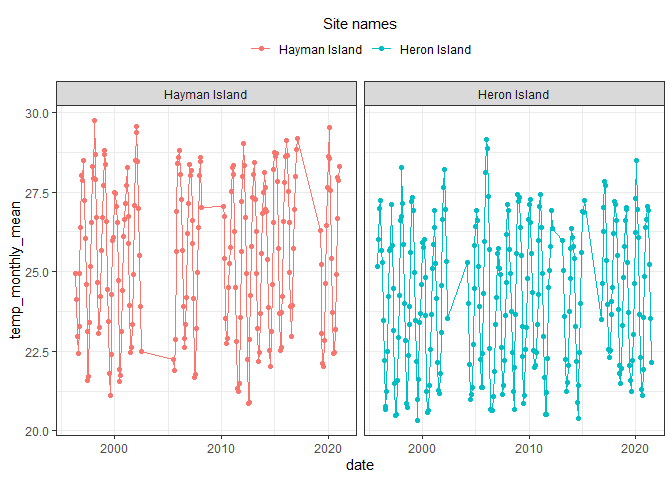
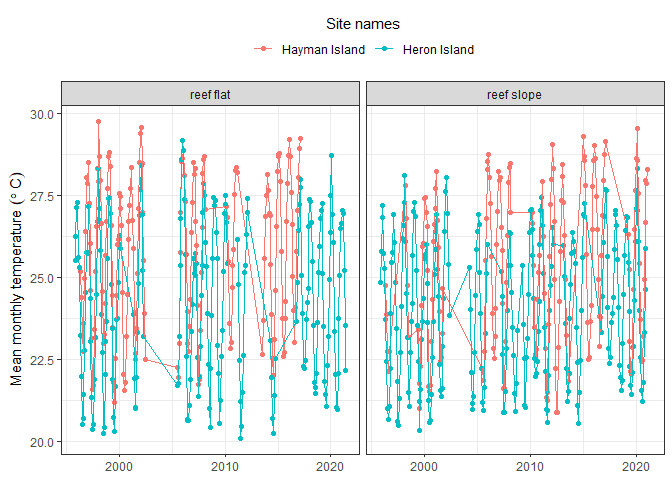
Adding logger deployment categories to data

diff --git a/poc-data-api/Extracting_Water_Temperature_at_Site.md b/poc-data-api/Extracting_Water_Temperature_at_Site.md
@@ -5,30 +5,36 @@ Denisse Fierro Arcos
 
 - <a href="#goal-of-this-notebook" id="toc-goal-of-this-notebook">Goal of
   this notebook</a>
-  - <a href="#loading-libraries" id="toc-loading-libraries">Loading
-    libraries</a>
-  - <a href="#connecting-to-rimrep-collection"
-    id="toc-connecting-to-rimrep-collection">Connecting to RIMReP
-    collection</a>
+- <a href="#loading-libraries" id="toc-loading-libraries">Loading
+  libraries</a>
+- <a href="#connecting-to-rimrep-collection"
+  id="toc-connecting-to-rimrep-collection">Connecting to RIMReP
+  collection</a>
   - <a href="#exploring-dataset-structure"
     id="toc-exploring-dataset-structure">Exploring dataset structure</a>
-  - <a href="#extracting-sites-and-coordinates-from-dataset-option-1"
-    id="toc-extracting-sites-and-coordinates-from-dataset-option-1">Extracting
-    sites and coordinates from dataset (Option #1)</a>
+- <a href="#extracting-variables-of-our-interest-from-dataset"
+  id="toc-extracting-variables-of-our-interest-from-dataset">Extracting
+  variables of our interest from dataset</a>
+  - <a href="#creating-deployment_location-column"
+    id="toc-creating-deployment_location-column">Creating
+    <code>deployment_location</code> column</a>
+  - <a href="#extracting-latitude-and-longitude-values-option-1"
+    id="toc-extracting-latitude-and-longitude-values-option-1">Extracting
+    latitude and longitude values (Option #1)</a>
     - <a href="#transforming-geometry-format"
       id="toc-transforming-geometry-format">Transforming <code>geometry</code>
       format</a>
   - <a href="#extracting-sites-and-coordinates-from-dataset-option-2"
     id="toc-extracting-sites-and-coordinates-from-dataset-option-2">Extracting
     sites and coordinates from dataset (Option #2)</a>
-  - <a href="#plotting-map-of-sampled-sites-in-this-dataset"
-    id="toc-plotting-map-of-sampled-sites-in-this-dataset">Plotting map of
-    sampled sites in this dataset</a>
-  - <a href="#extracting-data-for-one-site-of-interest"
-    id="toc-extracting-data-for-one-site-of-interest">Extracting data for
-    one site of interest</a>
-    - <a href="#plotting-timeseries" id="toc-plotting-timeseries">Plotting
-      timeseries</a>
+- <a href="#plotting-map-of-sampled-sites-in-this-dataset"
+  id="toc-plotting-map-of-sampled-sites-in-this-dataset">Plotting map of
+  sampled sites in this dataset</a>
+- <a href="#extracting-data-for-sites-of-interest"
+  id="toc-extracting-data-for-sites-of-interest">Extracting data for sites
+  of interest</a>
+  - <a href="#plotting-timeseries" id="toc-plotting-timeseries">Plotting
+    timeseries</a>
   - <a href="#saving-data-summaries-and-plot"
     id="toc-saving-data-summaries-and-plot">Saving data summaries and
     plot</a>
@@ -45,7 +51,7 @@ monitoring program. This way we can extract data for the site of our
 choice using the name of the site of our interest, without the need to
 know their coordinates.
 
-## Loading libraries
+# Loading libraries
 
 ``` r
 library(arrow)
@@ -58,7 +64,7 @@ library(sf)
 library(lubridate)
 ```
 
-## Connecting to RIMReP collection
+# Connecting to RIMReP collection
 
 As mentioned above, we will connect to the AIMS Sea Surface Temperature
 Monitoring Program. This can take a minute or so.
@@ -109,17 +115,31 @@ data_df$schema
     ## See $metadata for additional Schema metadata
 
 We can see that there are a number of variables available in this
-dataset. We will need to access two variables to create our list of
+dataset. We will need to access three variables to create a list of all
 sampled sites in this monitoring program:  
-- `site`, which includes the name of all sites sampled - `geometry`,
-which includes latitude and longitude coordinates in [well-known binary
+- `site`, which includes the name of all sites where temperature loggers
+were deployed - `subsite`, which includes a shorten version of the site
+name and an indication of where loggers where deployed (see below for
+more details) - `geometry`, which includes latitude and longitude
+coordinates in [well-known binary
 (WKB)](https://loc.gov/preservation/digital/formats/fdd/fdd000549.shtml)
-format.
+format
 
-We will transform the information in the `geometry` field into
-coordinate pairs (i.e., latitude and longitude in degrees).  
-Note that you get additional information about our dataset by exploring
-its metadata as shown below.
+Based on the `subsite` information, we will create a new column that we
+will call `deployment_location`. If `subsite` string includes `SL`, this
+indicates the temperature logger was deployed on a reef slope (depths of
+3 m or more). If this is the case, our new column will be labelled
+`reef slope`. If `FL` is included in the `subsite` string, this means
+the temperature logger was deployed on a reef flat (areas less than 3 m
+deep). In this case, we will classify this as `reef flat` in our new
+column.
+
+Next, we will transform the information contained in the `geometry`
+field into coordinate pairs (i.e., latitude and longitude in decimal
+degrees).
+
+**Note** that you can get additional information about the AIMS dataset
+by exploring its metadata as shown below.
 
 ``` r
 #Checking metadata
@@ -132,7 +152,7 @@ data_df$metadata
     ## $geo
     ## [1] "{\"primary_column\": \"geometry\", \"columns\": {\"geometry\": {\"encoding\": \"WKB\", \"crs\": null, \"geometry_type\": \"Point\", \"bbox\": [112.9866, -34.3725, 115.7104, -22.495]}}, \"version\": \"0.4.0\", \"creator\": {\"library\": \"geopandas\", \"version\": \"0.12.2\"}}"
 
-## Extracting sites and coordinates from dataset (Option \#1)
+# Extracting variables of our interest from dataset
 
 We can extract data from the AIMS dataset by using `dplyr` verbs as
 shown below.
@@ -140,7 +160,7 @@ shown below.
 ``` r
 sites <- data_df %>% 
   #We select unique sites included in the dataset
-  distinct(site, geometry) %>%
+  distinct(site, subsite, geometry) %>%
   #This will load them into memory
   collect()
 
@@ -148,15 +168,44 @@ sites <- data_df %>%
 glimpse(sites)
 ```
 
-    ## Rows: 516
-    ## Columns: 2
+    ## Rows: 589
+    ## Columns: 3
     ## $ site     <chr> "Hamelin Bay", "Flinders Bay", "Geographe Bay", "Cowaramup Ba…
+    ## $ subsite  <chr> "HAMBAYFL1", "FLINDERSBAY1", "GEOBAYFL1", "COWBAYFL1", "CANAL…
     ## $ geometry <arrw_bnr> <01, 01, 00, 00, 00, 19, e2, 58, 17, b7, c1, 5c, 40, b1,…
 
-As explained above, the `geometry` field is in WKB format, which we will
-transform into degree coordinates in the next step. Here, we will use
-the `WKB` to transform the `geometry` and then we will convert it to an
-`sf` object for easy data manipulation.
+## Creating `deployment_location` column
+
+We will use the `subsite` column to create the categories in our new
+column, as explained in the [exploring the dataset
+structure](#exploring-dataset-structure). If no condition is met, then
+we will label the row as `NA`.
+
+``` r
+sites <- sites %>% 
+  #Adding new column - Given categories based on a condition
+  mutate(deployment_location =  case_when(str_detect(subsite, "FL[0-9]{1}") ~ "reef flat",
+                                          str_detect(subsite, "SL[0-9]{1}") ~ "reef slope",
+                                          #If no condition is met, return NA
+                                          T ~ NA))
+
+#Checking results
+glimpse(sites)
+```
+
+    ## Rows: 589
+    ## Columns: 4
+    ## $ site                <chr> "Hamelin Bay", "Flinders Bay", "Geographe Bay", "C…
+    ## $ subsite             <chr> "HAMBAYFL1", "FLINDERSBAY1", "GEOBAYFL1", "COWBAYF…
+    ## $ geometry            <arrw_bnr> <01, 01, 00, 00, 00, 19, e2, 58, 17, b7, c1, …
+    ## $ deployment_location <chr> "reef flat", NA, "reef flat", "reef flat", "reef f…
+
+## Extracting latitude and longitude values (Option \#1)
+
+As explained [above](#exploring-dataset-structure), the `geometry` field
+is in WKB format, which we will transform into degree coordinates in the
+next step. Here, we will use the `WKB` to transform the `geometry` and
+then we will convert it to an `sf` object for easy data manipulation.
 
 ### Transforming `geometry` format
 
@@ -175,15 +224,15 @@ sites %>%
   head()
 ```
 
-    ## # A tibble: 6 × 4
-    ##   site        coords_deg$geometry   lon   lat
-    ##   <chr>                   <POINT> <dbl> <dbl>
-    ## 1 100th Site   (96.8709 -12.1069)  96.9 -12.1
-    ## 2 19-131 Reef (149.3786 -19.7641) 149.  -19.8
-    ## 3 19-131 Reef (149.3802 -19.7662) 149.  -19.8
-    ## 4 19-131 Reef  (149.376 -19.7728) 149.  -19.8
-    ## 5 19-138 Reef (149.4305 -19.8069) 149.  -19.8
-    ## 6 19-138 Reef (149.4199 -19.8024) 149.  -19.8
+    ## # A tibble: 6 × 6
+    ##   site        subsite  deployment_location coords_deg$geometry   lon   lat
+    ##   <chr>       <chr>    <chr>                           <POINT> <dbl> <dbl>
+    ## 1 100th Site  100THSI… <NA>                 (96.8709 -12.1069)  96.9 -12.1
+    ## 2 19-131 Reef 19131FL1 reef flat           (149.3786 -19.7641) 149.  -19.8
+    ## 3 19-131 Reef 19131SL1 reef slope          (149.3802 -19.7662) 149.  -19.8
+    ## 4 19-131 Reef 19131SL3 reef slope           (149.376 -19.7728) 149.  -19.8
+    ## 5 19-138 Reef 19138SL1 reef slope          (149.4305 -19.8069) 149.  -19.8
+    ## 6 19-138 Reef 19138FL1 reef flat           (149.4199 -19.8024) 149.  -19.8
 
 ## Extracting sites and coordinates from dataset (Option \#2)
 
@@ -196,7 +245,7 @@ extract coordinates as shown in the block below.
 ``` r
 data_df %>% 
   #We select unique sites included in the dataset together with lat and lon values
-  distinct(site, lon, lat) %>% 
+  distinct(site, subsite, lon, lat) %>% 
   #Selecting the first rows for comparison with option#1
   arrange(site) %>% 
   head() %>% 
@@ -204,25 +253,27 @@ data_df %>%
   collect()
 ```
 
-    ## # A tibble: 6 × 3
-    ##   site          lon   lat
-    ##   <chr>       <dbl> <dbl>
-    ## 1 100th Site   96.9 -12.1
-    ## 2 19-131 Reef 149.  -19.8
-    ## 3 19-131 Reef 149.  -19.8
-    ## 4 19-131 Reef 149.  -19.8
-    ## 5 19-138 Reef 149.  -19.8
-    ## 6 19-138 Reef 149.  -19.8
+    ## # A tibble: 6 × 4
+    ##   site        subsite     lon   lat
+    ##   <chr>       <chr>     <dbl> <dbl>
+    ## 1 100th Site  100THSITE  96.9 -12.1
+    ## 2 19-131 Reef 19131FL1  149.  -19.8
+    ## 3 19-131 Reef 19131SL1  149.  -19.8
+    ## 4 19-131 Reef 19131SL3  149.  -19.8
+    ## 5 19-138 Reef 19138SL1  149.  -19.8
+    ## 6 19-138 Reef 19138FL1  149.  -19.8
 
-The two options shown for extracting sites and coordinates from our
-dataset offer the same results!
+The two options shown above for extracting latitude and longitude values
+for each site are equivalent and produce the same results. They are
+interchangeable and you can use whichever you prefer.
 
-## Plotting map of sampled sites in this dataset
+# Plotting map of sampled sites in this dataset
 
 We will make a map of all sites included in the AIMS Water Temperature
 Monitoring Program. We will also highlight the location of two sites:
-**Hayman Island** and **Heron Island** in red. We will use these sites
-as an example to show how to extract data at multiple sites of interest.
+**Hayman Island** and **Heron Island** in red. We will use these
+highlighted sites as examples to show you how to extract data at
+multiple sites of interest.
 
 ``` r
 #Loading basemap with countries in Oceania and Asia
@@ -247,7 +298,7 @@ oce_asia %>%
 
 ![](Extracting_Water_Temperature_at_Site_files/figure-gfm/map_sites-1.png)<!-- -->
 
-## Extracting data for one site of interest
+# Extracting data for sites of interest
 
 We can use the information in our `sites` variable to extract data for a
 site of interest. All we need to know is the name of the site, as shown
@@ -263,27 +314,28 @@ sites_coords <- sites %>%
   #Using random site as example
   filter(site %in% c("Hayman Island", "Heron Island")) %>% 
   #Extracting latitude and longitude coordinates
-  select(site, lon, lat)
+  select(site, lon, lat, deployment_location)
 
 #Checking results
 sites_coords
 ```
 
-    ## # A tibble: 8 × 3
-    ##   site            lon   lat
-    ##   <chr>         <dbl> <dbl>
-    ## 1 Heron Island   152. -23.4
-    ## 2 Heron Island   152. -23.4
-    ## 3 Heron Island   152. -23.4
-    ## 4 Heron Island   152. -23.4
-    ## 5 Heron Island   152. -23.4
-    ## 6 Heron Island   152. -23.4
-    ## 7 Hayman Island  149. -20.0
-    ## 8 Hayman Island  149. -20.1
+    ## # A tibble: 8 × 4
+    ##   site            lon   lat deployment_location
+    ##   <chr>         <dbl> <dbl> <chr>              
+    ## 1 Heron Island   152. -23.4 reef flat          
+    ## 2 Heron Island   152. -23.4 reef flat          
+    ## 3 Heron Island   152. -23.4 reef flat          
+    ## 4 Heron Island   152. -23.4 reef flat          
+    ## 5 Heron Island   152. -23.4 reef flat          
+    ## 6 Heron Island   152. -23.4 reef slope         
+    ## 7 Hayman Island  149. -20.0 reef flat          
+    ## 8 Hayman Island  149. -20.1 reef slope
 
 We can see that there are multiple coordinates for each site, but they
-are located in close proximity to one another. We will use this
-information to extract data from the dataset.
+are located in close proximity to one another. In this case, both sites
+include instrument deployments in the reef flat and slope. We will use
+this information to extract data from the original AIMS dataset.
 
 Note that `qc_val` is the variable containing the temperature data in
 this dataset.
@@ -291,18 +343,18 @@ this dataset.
 ``` r
 sites_temp <- data_df %>% 
   #We will only keep data for the sites of our interest
-  inner_join(sites_coords, by = c("site", "lon", "lat"))%>% 
+  inner_join(sites_coords, by = c("site", "lon", "lat")) %>% 
   #We will two new columns: year and month to calculate monthly means
   mutate(year = year(time),
-         month = month(time)) %>% 
+         month = month(time)) %>%
   #We will now group data by month, year and site
-  group_by(year, month, site) %>% 
+  group_by(year, month, site, deployment_location) %>%
   #Calculating monthly means for temperature at each site
   summarise(temp_monthly_mean = round(mean(qc_val, na.rm = TRUE), 2),
-            #Number of points used in monthly mean calculations
-            nPoints = n()) %>% 
+            #Total number of observations used in monthly mean calculations
+            tot_obs = n()) %>%
   #Arranging in chronological order
-  arrange(site, year, month) %>% 
+  arrange(site, deployment_location, year, month) %>%
   #Turning results into data frame
   collect()
 
@@ -310,18 +362,18 @@ sites_temp <- data_df %>%
 head(sites_temp)
 ```
 
-    ## # A tibble: 6 × 5
-    ## # Groups:   year, month [6]
-    ##    year month site          temp_monthly_mean nPoints
-    ##   <int> <int> <chr>                     <dbl>   <int>
-    ## 1  1996     5 Hayman Island              25.0     232
-    ## 2  1996     6 Hayman Island              24.1    2878
-    ## 3  1996     7 Hayman Island              23.0    2973
-    ## 4  1996     8 Hayman Island              22.4    2976
-    ## 5  1996     9 Hayman Island              23.3    2283
-    ## 6  1996    10 Hayman Island              25.0    1487
+    ## # A tibble: 6 × 6
+    ## # Groups:   year, month, site [6]
+    ##    year month site          deployment_location temp_monthly_mean tot_obs
+    ##   <int> <int> <chr>         <chr>                           <dbl>   <int>
+    ## 1  1996     5 Hayman Island reef flat                        25.2     116
+    ## 2  1996     6 Hayman Island reef flat                        24.4    1439
+    ## 3  1996     7 Hayman Island reef flat                        23.2    1488
+    ## 4  1996     8 Hayman Island reef flat                        22.7    1488
+    ## 5  1996     9 Hayman Island reef flat                        23.6    1440
+    ## 6  1996    10 Hayman Island reef flat                        25.0    1487
 
-### Plotting timeseries
+## Plotting timeseries
 
 We can now use `ggplot2` to create a plot showing how temperature has
 changed over time. We will save the plot as a variable so we can save it
@@ -337,19 +389,27 @@ temp_plot <- sites_temp %>%
   geom_point()+
   geom_line()+
   #Creating subplots for each site for easy comparison
-  facet_grid(~site)+
+  facet_grid(~deployment_location)+
   #Removing default grey background
   theme_bw()+
   #Change position of legend
-  theme(legend.position = "top")+
+  theme(legend.position = "top", axis.title.x = element_blank())+
   #Change position and title of legend
-  guides(colour = guide_legend(title.position = "top", title.hjust = 0.5, title = "Site names"))
+  guides(colour = guide_legend(title.position = "top", title.hjust = 0.5, title = "Site names"))+
+  labs(y = expression("Mean monthly temperature  " ( degree~C)))
 
 #Checking plot
 temp_plot
 ```
 
+    ## Warning: Removed 3 rows containing missing values (`geom_point()`).
+
 ![](Extracting_Water_Temperature_at_Site_files/figure-gfm/timeseries_plot-1.png)<!-- -->
+
+Note that `ggplot2` is warning us that three rows were removed from the
+plot. This is because between May and July 2010, there were no
+temperature measurements for the logger in the reef flat at Heron
+Island.
 
 ## Saving data summaries and plot
 
